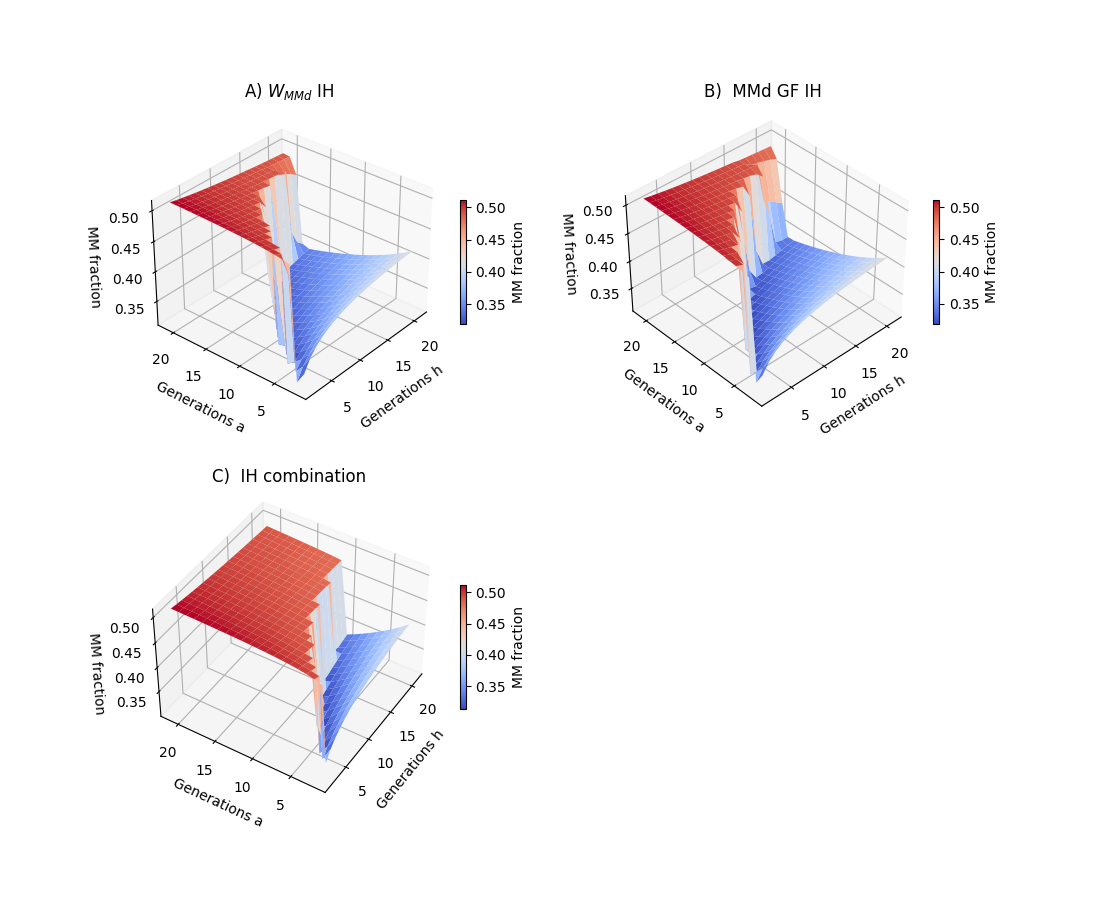
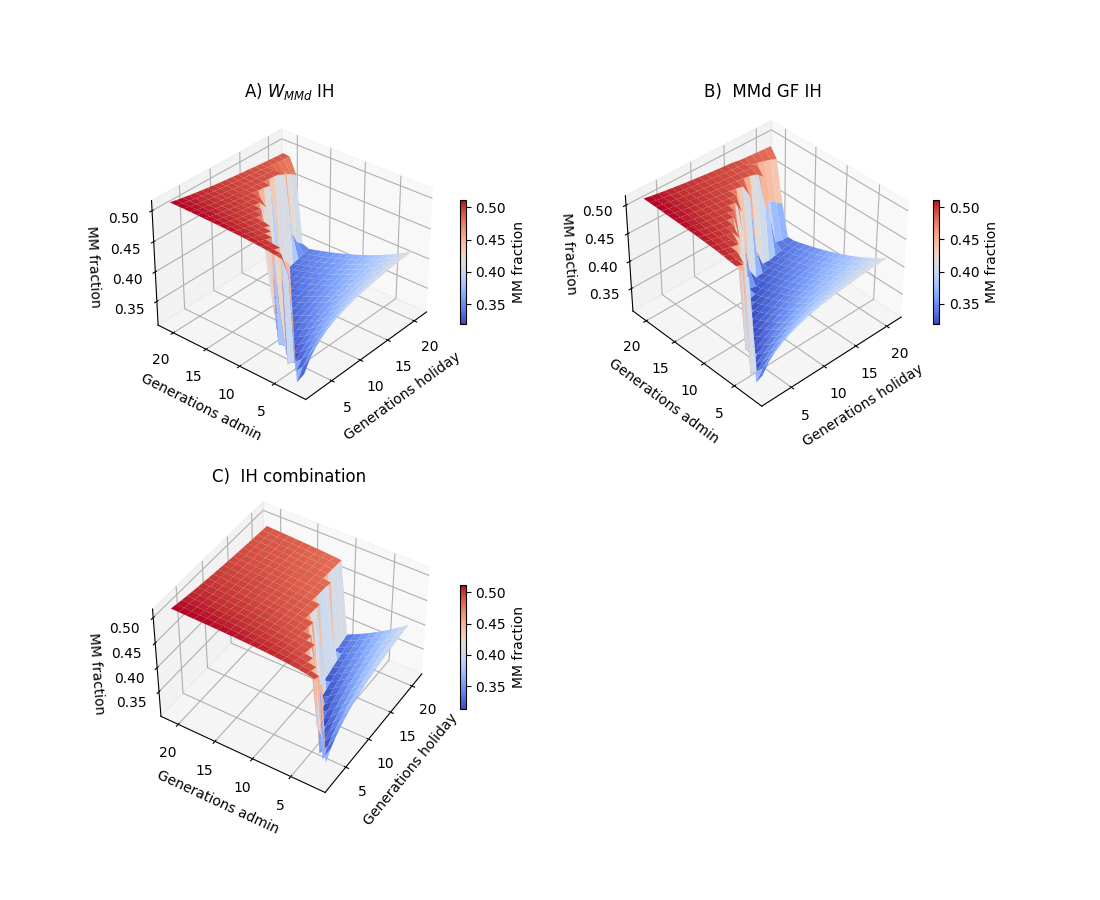
axes titles

diff --git a/code/MM_model_frac_IH_inf.py b/code/MM_model_frac_IH_inf.py
@@ -38,10 +38,10 @@ def main():
     # Do doc tests
     doctest.testmod()
 
-    # Make a figure showing the cell fraction dynamics by traditional therapy
-    # and by adaptive therapy
-    list_t_steps_drug = [5, 5, 5]
-    Figure_continuous_MTD_vs_AT_realistic(18, list_t_steps_drug)
+    # # Make a figure showing the cell fraction dynamics by traditional therapy
+    # # and by adaptive therapy
+    # list_t_steps_drug = [5, 5, 5]
+    # Figure_continuous_MTD_vs_AT_realistic(18, list_t_steps_drug)
 
     # Make a 3D figure showthing the effect of different drug holiday and
     # administration periods
@@ -1175,8 +1175,8 @@ def Figure_3D_MM_frac_IH_add_and_holiday():
             surf = ax.plot_surface(X_W_IH, Y_W_IH, Z_W_IH, cmap='coolwarm')
 
             # Add labels
-            ax.set_ylabel('Generations a')
-            ax.set_xlabel('Generations h')
+            ax.set_ylabel('Generations admin')
+            ax.set_xlabel('Generations holiday')
             ax.set_zlabel('MM fraction')
             ax.set_title(r'A) $W_{MMd}$ IH', pad=10)
 
@@ -1191,8 +1191,8 @@ def Figure_3D_MM_frac_IH_add_and_holiday():
             surf = ax.plot_surface(X_GF_IH, Y_GF_IH, Z_GF_IH, cmap = 'coolwarm')
 
             # Add labels
-            ax.set_ylabel('Generations a')
-            ax.set_xlabel('Generations h')
+            ax.set_ylabel('Generations admin')
+            ax.set_xlabel('Generations holiday')
             ax.set_zlabel('MM fraction')
             ax.set_title('B)  MMd GF IH', pad=10)
 
@@ -1208,8 +1208,8 @@ def Figure_3D_MM_frac_IH_add_and_holiday():
             surf = ax.plot_surface(X_comb, Y_comb, Z_comb, cmap = 'coolwarm')
 
             # Add labels
-            ax.set_ylabel('Generations a')
-            ax.set_xlabel('Generations h')
+            ax.set_ylabel('Generations admin')
+            ax.set_xlabel('Generations holiday')
             ax.set_zlabel('MM fraction')
             ax.set_title('C)  IH combination', pad=10)
 

diff --git a/code/MM_model_nr_IH_inf.py b/code/MM_model_nr_IH_inf.py
@@ -2169,8 +2169,8 @@ def Figure_3D_MM_numb_IH_add_and_holiday():
             surf = ax.plot_surface(X_W_IH, Y_W_IH, Z_W_IH, cmap='coolwarm')
 
             # Add labels
-            ax.set_ylabel('Generations a')
-            ax.set_xlabel('Generations h')
+            ax.set_ylabel('Generations admin')
+            ax.set_xlabel('Generations holiday')
             ax.set_zlabel('MM number')
             ax.set_title(r'A) $W_{MMd}$ IH', pad=10)
 
@@ -2185,8 +2185,8 @@ def Figure_3D_MM_numb_IH_add_and_holiday():
             surf = ax.plot_surface(X_GF_IH, Y_GF_IH, Z_GF_IH, cmap = 'coolwarm')
 
             # Add labels
-            ax.set_ylabel('Generations a')
-            ax.set_xlabel('Generations h')
+            ax.set_ylabel('Generations admin')
+            ax.set_xlabel('Generations holiday')
             ax.set_zlabel('MM number')
             ax.set_title('B)  MMd GF IH', pad=10)
 
@@ -2202,8 +2202,8 @@ def Figure_3D_MM_numb_IH_add_and_holiday():
             surf = ax.plot_surface(X_comb, Y_comb, Z_comb, cmap = 'coolwarm')
 
             # Add labels
-            ax.set_ylabel('Generations a')
-            ax.set_xlabel('Generations h')
+            ax.set_ylabel('Generations admin')
+            ax.set_xlabel('Generations holiday')
             ax.set_zlabel('MM number')
             ax.set_title('C)  IH combination', pad=10)
 
